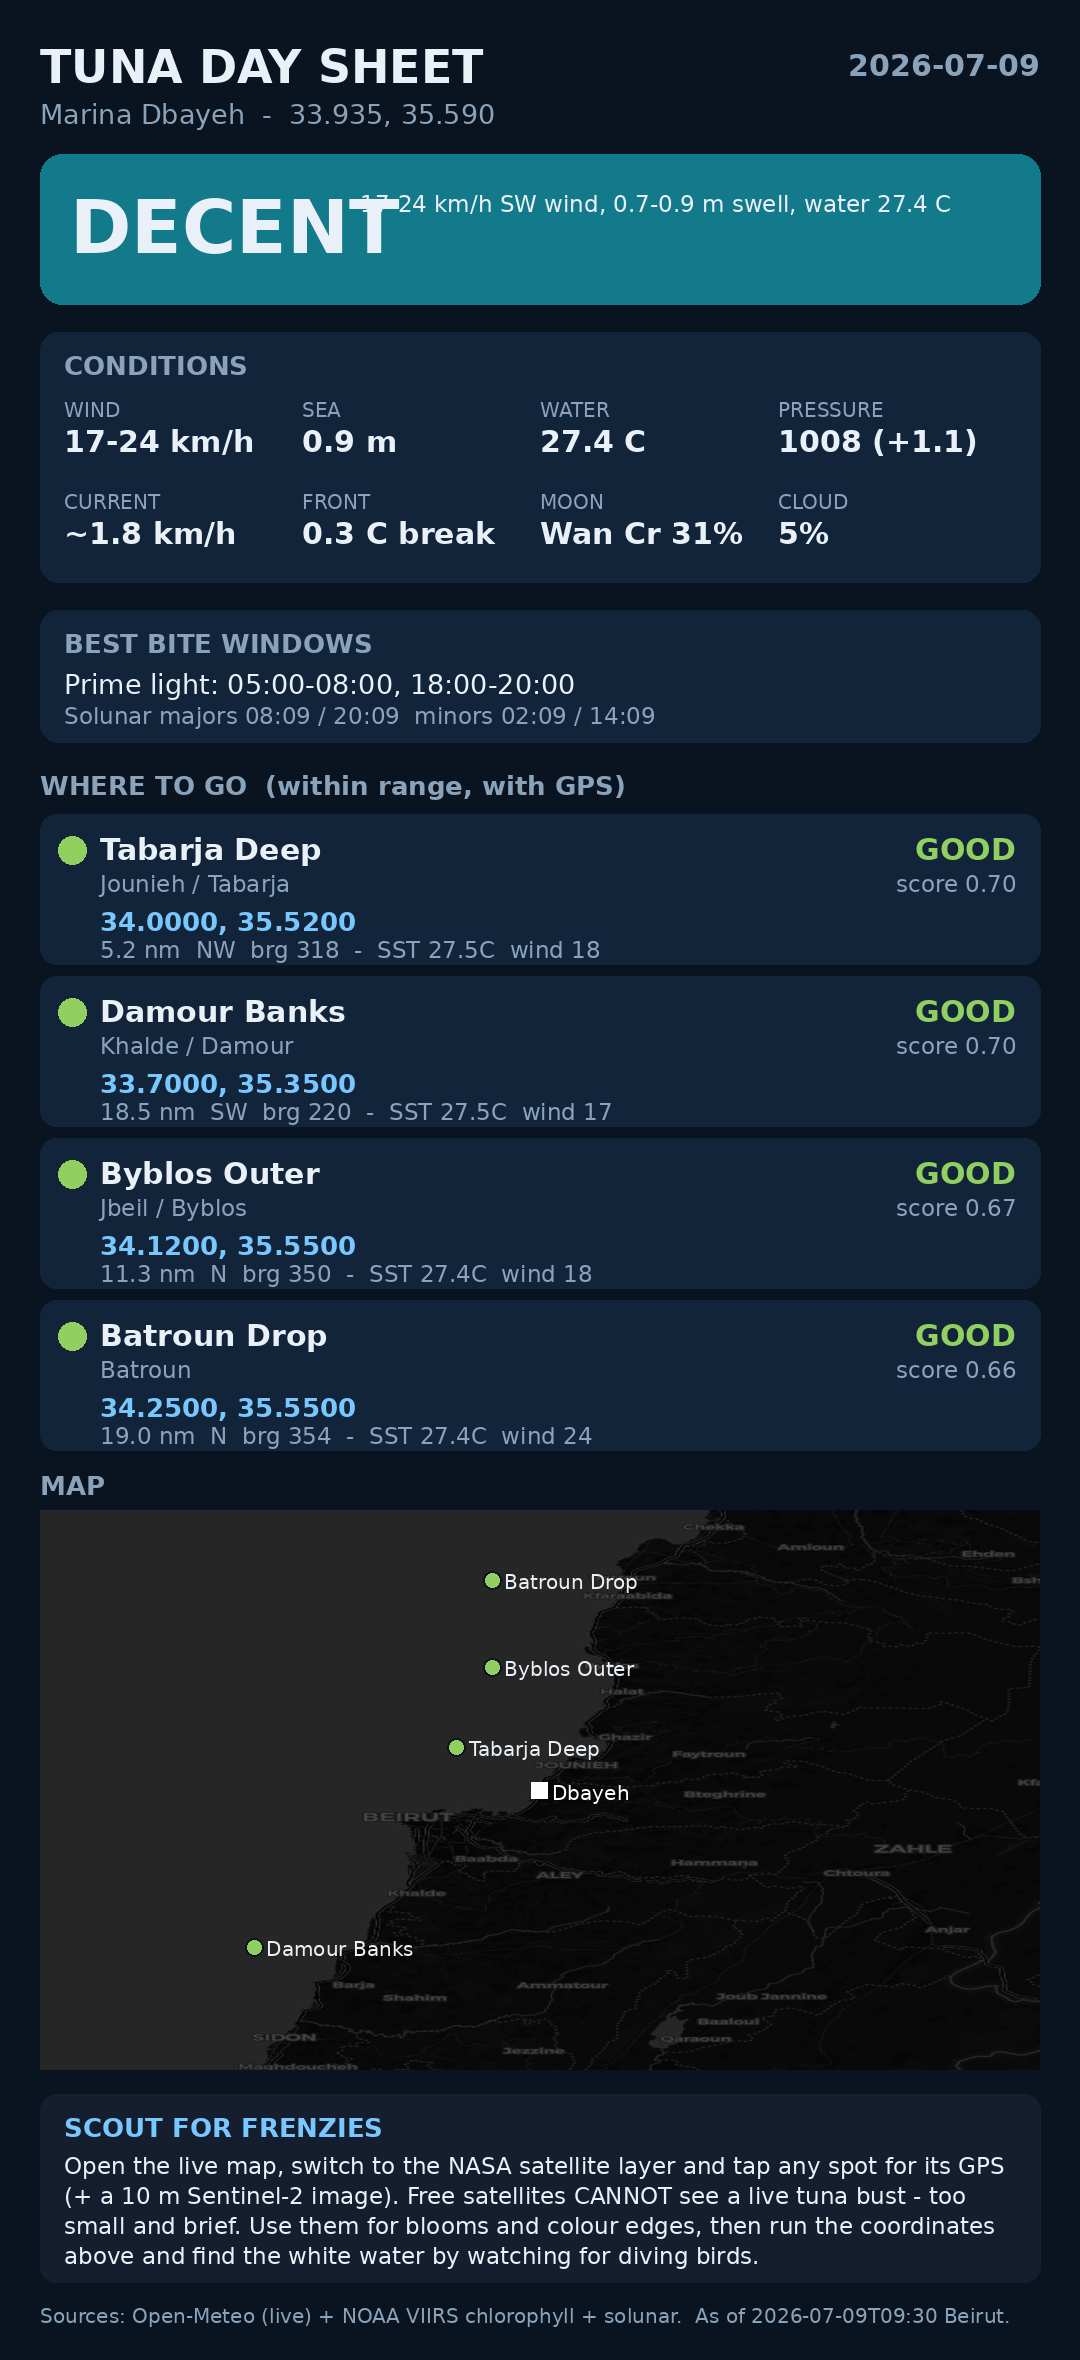
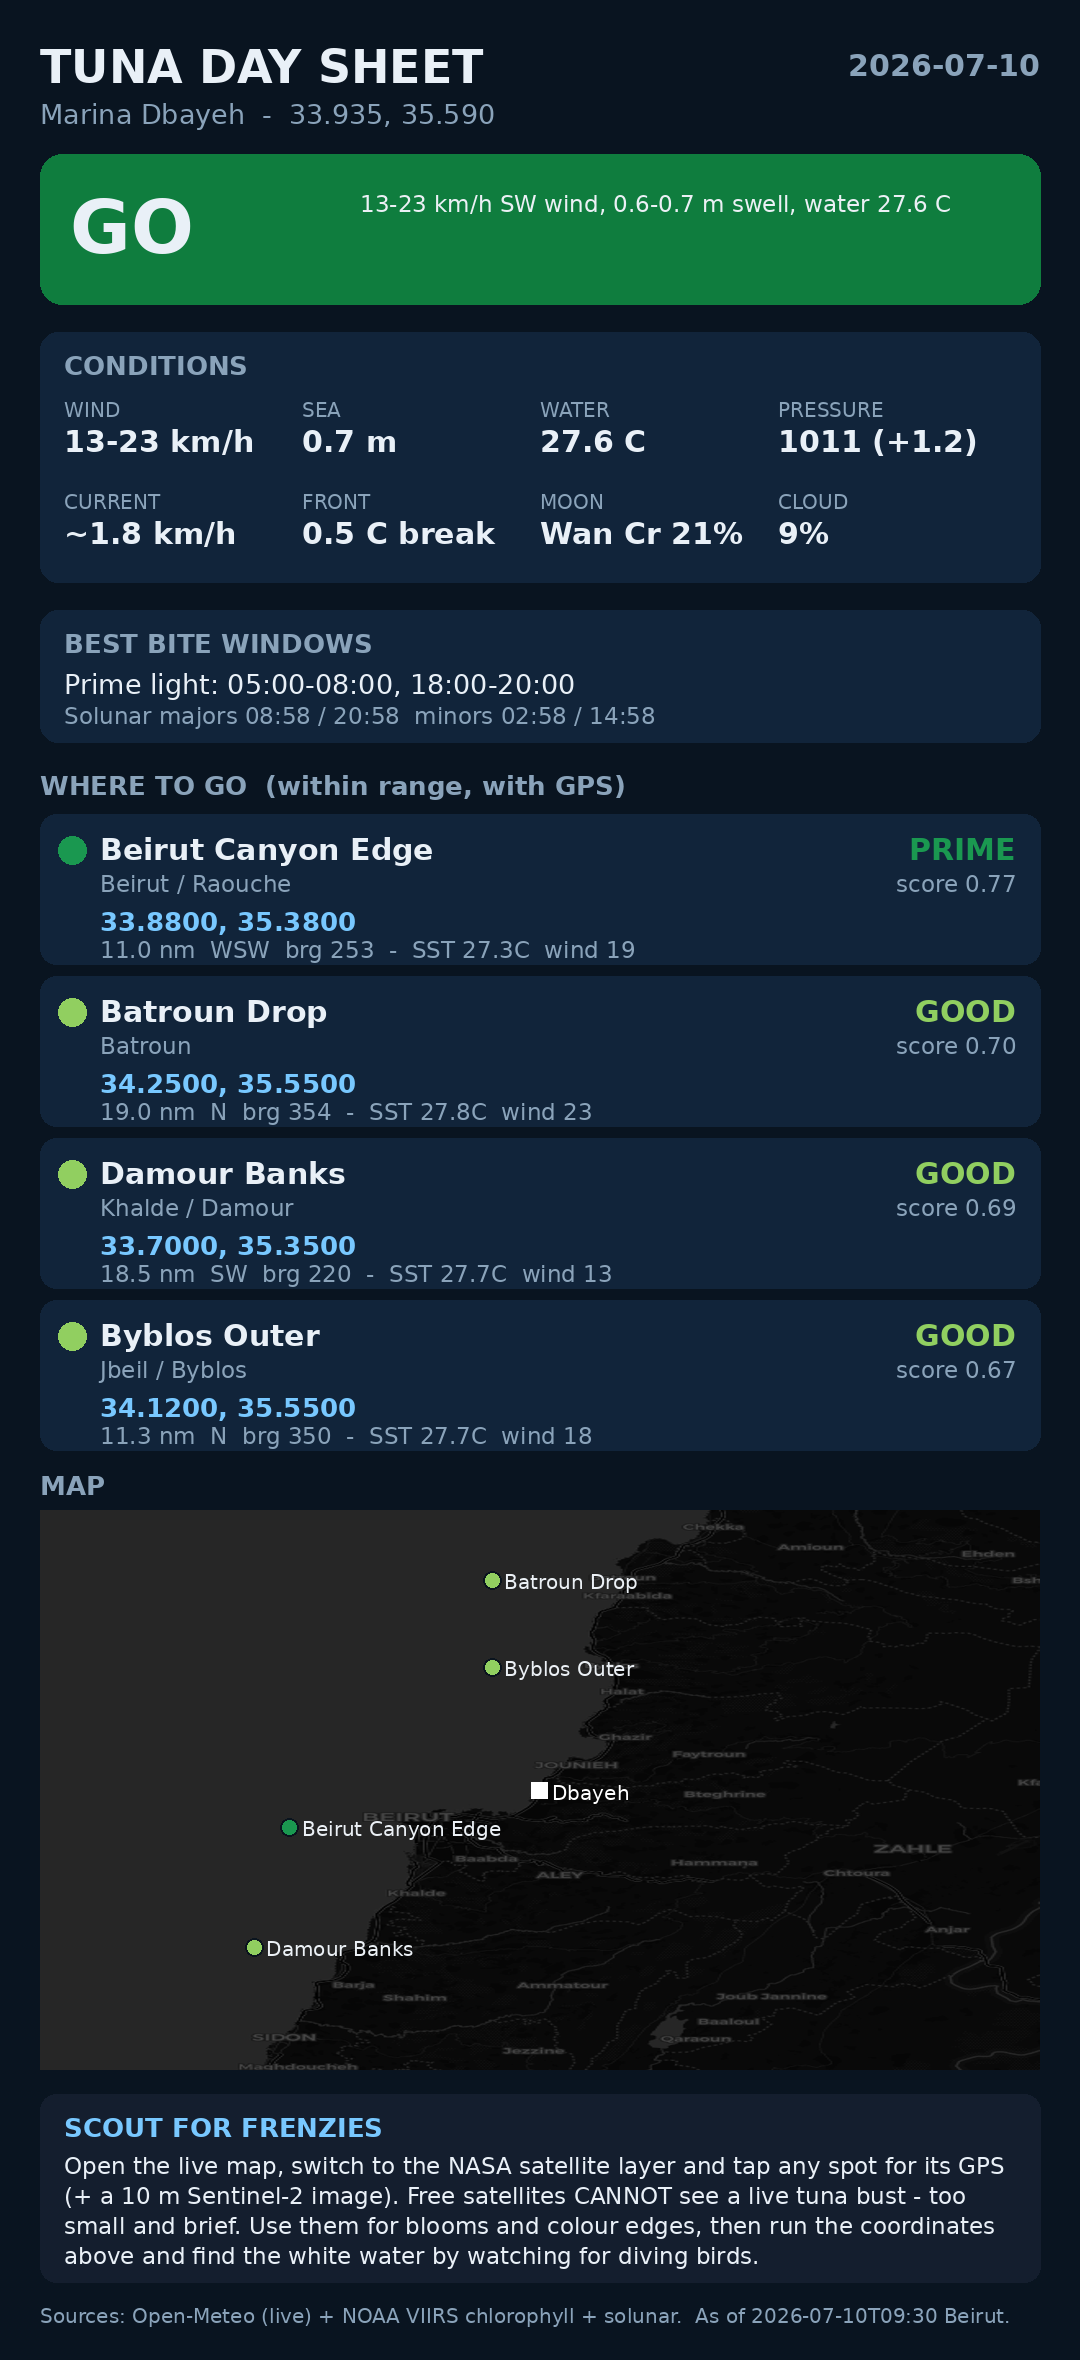
chore: daily tuna report + day image

diff --git a/docs/today.md b/docs/today.md
@@ -1,29 +1,29 @@
-# Tuna day sheet - 2026-07-09T09:30 (Asia/Beirut)
+# Tuna day sheet - 2026-07-10T09:30 (Asia/Beirut)
 
 **From Marina Baye, Dbayeh** (33.935, 35.590, range 40 km)
 
-## VERDICT: DECENT - 17-24 km/h SW wind, 0.7-0.9 m swell, water 27.4 C
+## VERDICT: GO - 13-23 km/h SW wind, 0.6-0.7 m swell, water 27.6 C
 
 | Ocean | |
 |---|---|
-| Sea temp | 27.2 C-27.5 C (avg 27.4) |
-| Swell | 0.7 m-0.9 m |
-| Wind | 17.2 km/h-23.6 km/h SW |
-| Pressure | 1007.7 hPa, rising (+1.1/3h) |
+| Sea temp | 27.3 C-27.8 C (avg 27.6) |
+| Swell | 0.6 m-0.7 m |
+| Wind | 12.9 km/h-22.7 km/h SW |
+| Pressure | 1010.6 hPa, rising (+1.2/3h) |
 | Current | ~1.8 km/h |
-| Moon | Waning Crescent, 31% |
-| Solunar majors | 08:09 / 20:09 (approx) |
+| Moon | Waning Crescent, 21% |
+| Solunar majors | 08:58 / 20:58 (approx) |
 
 ## Where to go (within range, best first)
 
 | # | Rating | Score | Dist | Head | SST | Wind | Spot | Coordinates |
 |--:|:--|--:|--:|:--|--:|--:|:--|:--|
-| 1 | GOOD | 0.70 | 5.2 nm | NW | 27.5 C | 18.4 km/h | Tabarja Deep (Jounieh / Tabarja) | 34.000, 35.520 |
-| 2 | GOOD | 0.70 | 18.5 nm | SW | 27.5 C | 17.2 km/h | Damour Banks (Khalde / Damour) | 33.700, 35.350 |
-| 3 | GOOD | 0.67 | 11.3 nm | N | 27.4 C | 18.1 km/h | Byblos Outer (Jbeil / Byblos) | 34.120, 35.550 |
-| 4 | GOOD | 0.66 | 19.0 nm | N | 27.4 C | 23.6 km/h | Batroun Drop (Batroun) | 34.250, 35.550 |
-| 5 | GOOD | 0.62 | 11.0 nm | WSW | 27.2 C | 21.9 km/h | Beirut Canyon Edge (Beirut / Raouche) | 33.880, 35.380 |
+| 1 | PRIME | 0.77 | 11.0 nm | WSW | 27.3 C | 19.3 km/h | Beirut Canyon Edge (Beirut / Raouche) | 33.880, 35.380 |
+| 2 | GOOD | 0.70 | 19.0 nm | N | 27.8 C | 22.7 km/h | Batroun Drop (Batroun) | 34.250, 35.550 |
+| 3 | GOOD | 0.69 | 18.5 nm | SW | 27.7 C | 12.9 km/h | Damour Banks (Khalde / Damour) | 33.700, 35.350 |
+| 4 | GOOD | 0.67 | 11.3 nm | N | 27.7 C | 18.0 km/h | Byblos Outer (Jbeil / Byblos) | 34.120, 35.550 |
+| 5 | GOOD | 0.67 | 5.2 nm | NW | 27.7 C | 17.1 km/h | Tabarja Deep (Jounieh / Tabarja) | 34.000, 35.520 |
 
-**Best bet:** Tabarja Deep - 5.2 nm bearing 318 (NW). Early morning before the sea breeze fills in; work the convergence lines.
+**Best bet:** Beirut Canyon Edge - 11.0 nm bearing 253 (WSW). Top zone on a thermal break. Cast the warm/cold seam; look for diving birds off Raouche.
 
 > Search zones, not guaranteed marks. Bluefin are regulated - check Lebanese / ICCAT season, quota and permits before targeting them.